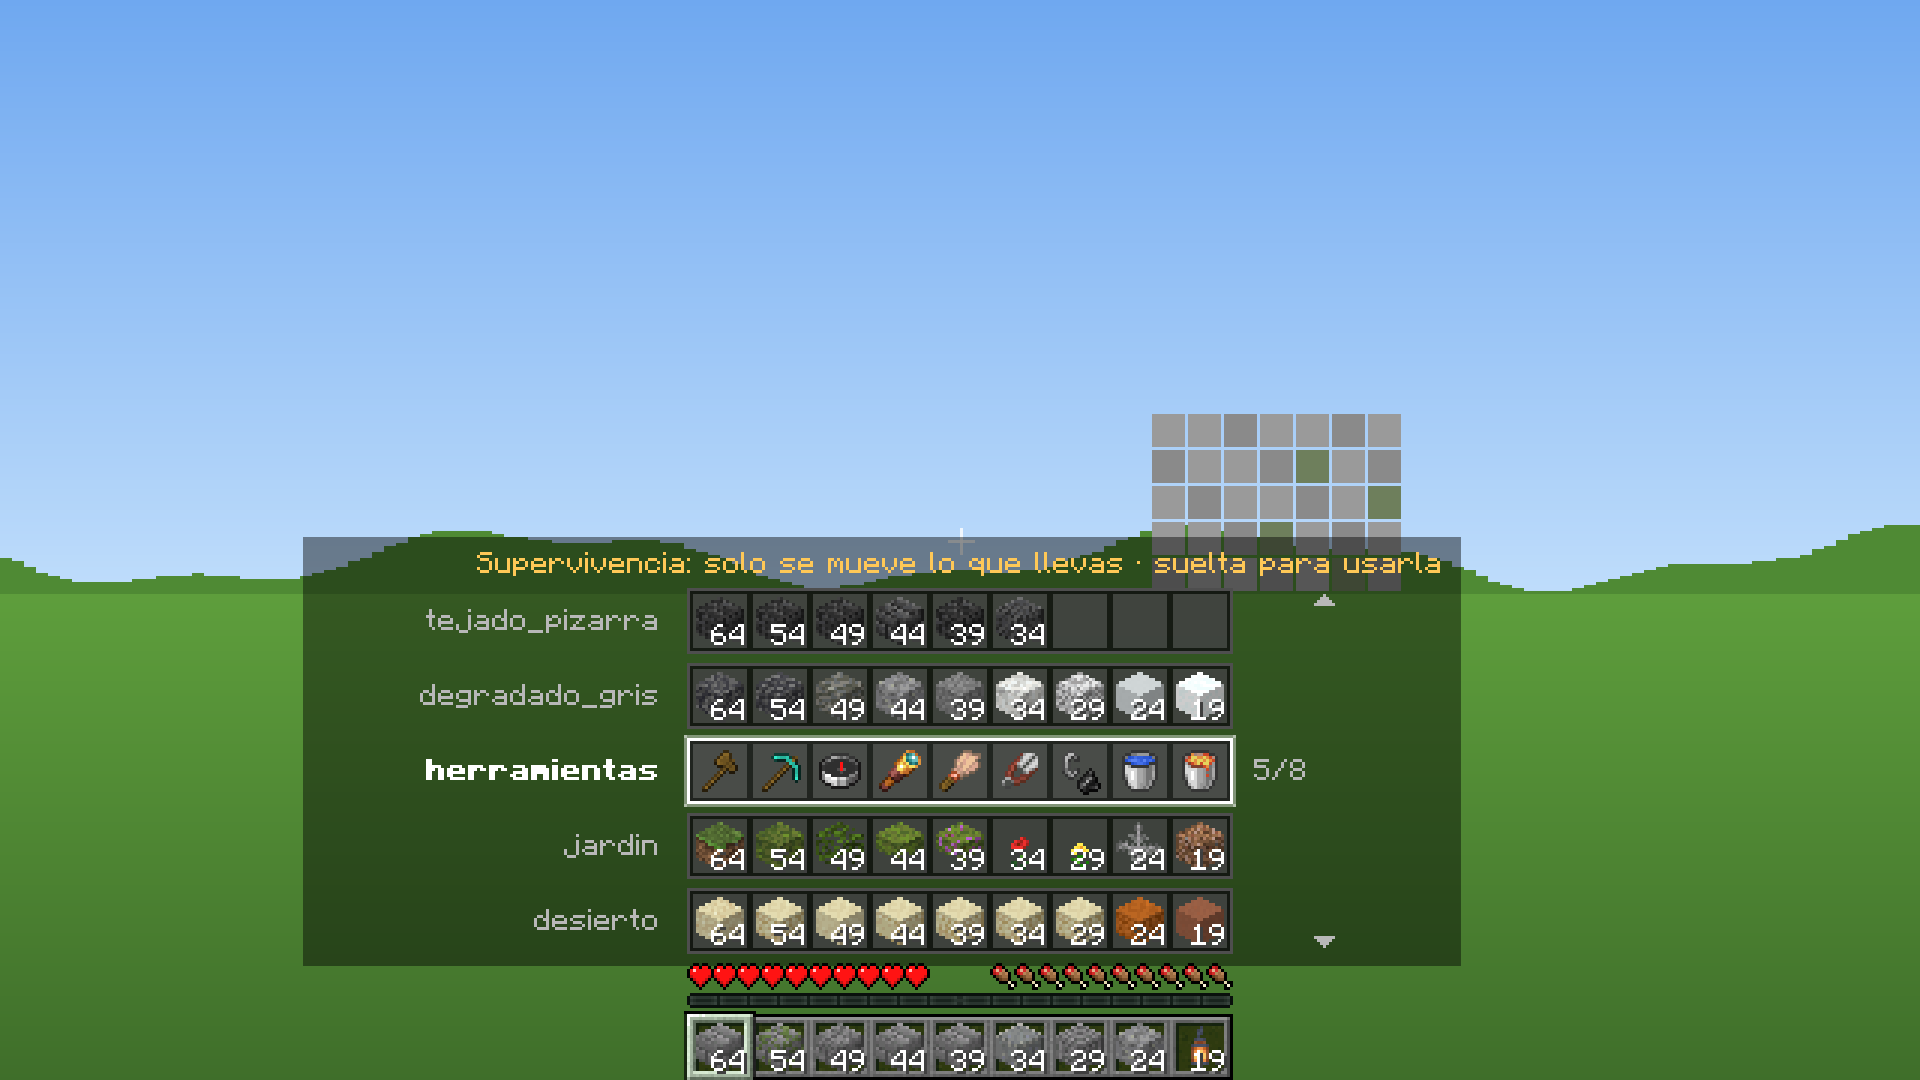
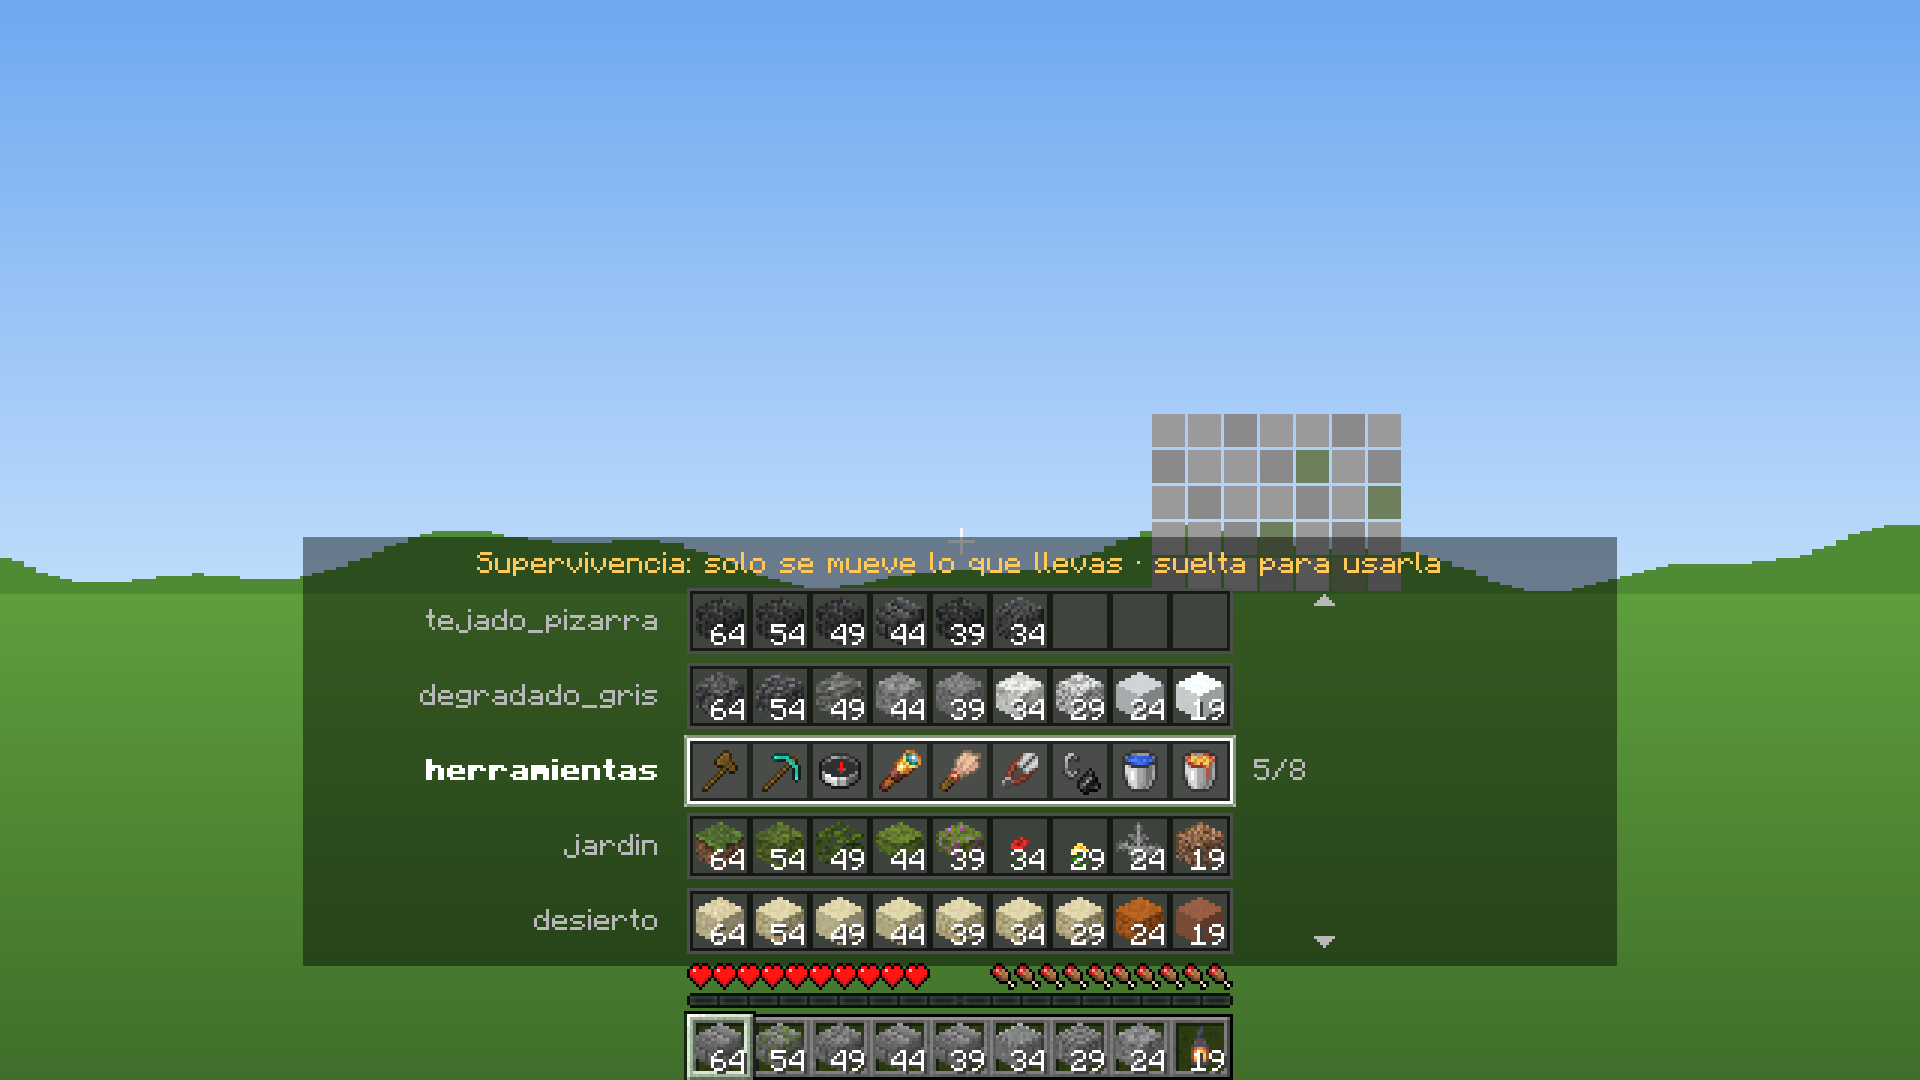
Tira de barras: fondo centrado como la barra de verdad

Changed region(s): [[0.75, 0.4889, 0.8438, 0.9167]]

diff --git a/src/main/java/com/komainu/moxia/hotbar/ui/HotbarStripView.java b/src/main/java/com/komainu/moxia/hotbar/ui/HotbarStripView.java
@@ -76,9 +76,12 @@ public final class HotbarStripView {
         int nameSpace = Math.min(120, firstRow.x() - 12);
         String hint = hint(deck, texts);
         int hintWidth = canvas.width(hint);
-        int left = Math.min(firstRow.x() - nameSpace - 8, layout.width() / 2 - hintWidth / 2 - 6);
-        int right = Math.max(firstRow.right() + 40, layout.width() / 2 + hintWidth / 2 + 6);
-        Rect backdrop = new Rect(Math.max(0, left), layout.top() - 17, Math.min(layout.width(), right) - Math.max(0, left),
+        // Centrado en la pantalla, como la barra: ancho para los nombres (izquierda) o la posición (derecha).
+        int center = layout.width() / 2;
+        int half = Math.max(hintWidth / 2 + 6, deck.isEmpty() ? ROW_WIDTH / 2 + 8
+                : Math.max(center - (firstRow.x() - nameSpace - 8), firstRow.right() + 40 - center));
+        int left = Math.max(0, center - half);
+        Rect backdrop = new Rect(left, layout.top() - 17, Math.min(layout.width(), center + half) - left,
                 layout.rows().getLast().bottom() - layout.top() + 21);
         canvas.fill(backdrop, 0x70000000);
         canvas.text(hint, layout.width() / 2 - hintWidth / 2, layout.top() - 12, hintColor(deck));
